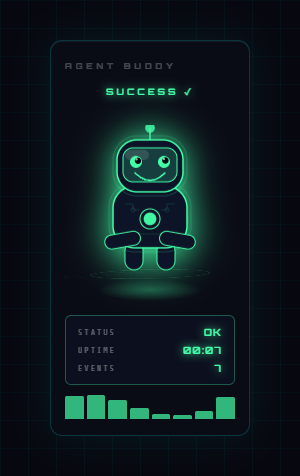
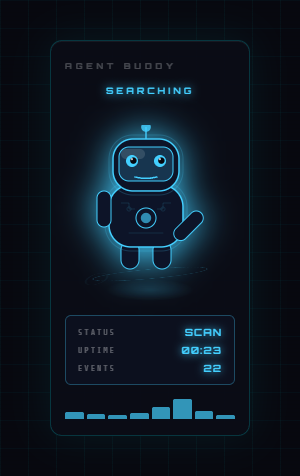
Generate all 9 screenshots with state names matching filenames

diff --git a/generate-screenshots.js b/generate-screenshots.js
@@ -70,10 +70,15 @@ if (!fs.existsSync(screenshotsDir)) {
   await delay(500);
   
   const screenshots = [
-    { name: 'screenshot-idle.png', clicks: 0 },
-    { name: 'screenshot-success.png', clicks: 6 },
-    { name: 'screenshot-error.png', clicks: 7 },
-    { name: 'screenshot-terminal.png', clicks: 5 }
+    { name: 'screenshot-idle.png', clicks: 0, expectedState: 'idle' },
+    { name: 'screenshot-thinking.png', clicks: 1, expectedState: 'thinking' },
+    { name: 'screenshot-planning.png', clicks: 2, expectedState: 'planning' },
+    { name: 'screenshot-searching.png', clicks: 3, expectedState: 'searching' },
+    { name: 'screenshot-editing.png', clicks: 4, expectedState: 'editing' },
+    { name: 'screenshot-terminal.png', clicks: 5, expectedState: 'terminal' },
+    { name: 'screenshot-success.png', clicks: 6, expectedState: 'success' },
+    { name: 'screenshot-error.png', clicks: 7, expectedState: 'error' },
+    { name: 'screenshot-sleeping.png', clicks: 8, expectedState: 'sleeping' }
   ];
   
   // Take screenshots by cycling through states
@@ -97,7 +102,7 @@ if (!fs.existsSync(screenshotsDir)) {
         type: 'png'
       });
       
-      console.log(`✓ Generated ${screenshot.name}`);
+      console.log(`✓ Generated ${screenshot.name} (${screenshot.expectedState} state)`);
     } catch (error) {
       console.error(`✗ Failed to generate ${screenshot.name}:`, error.message);
     }
